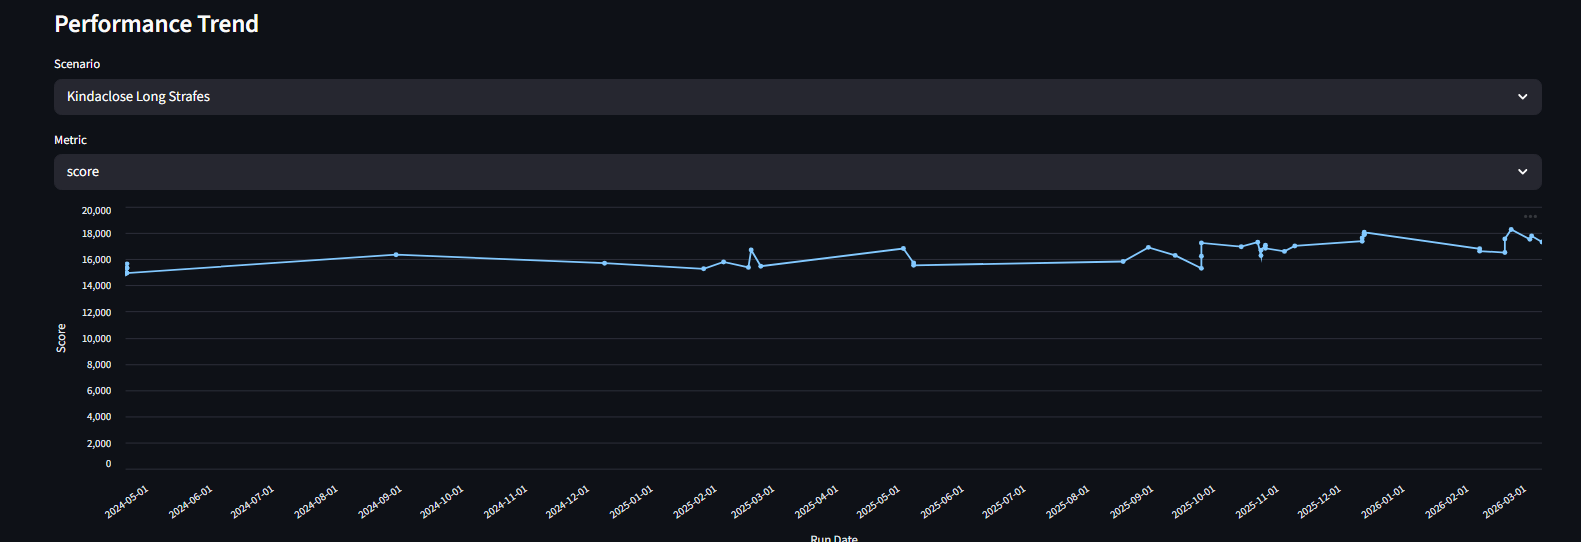
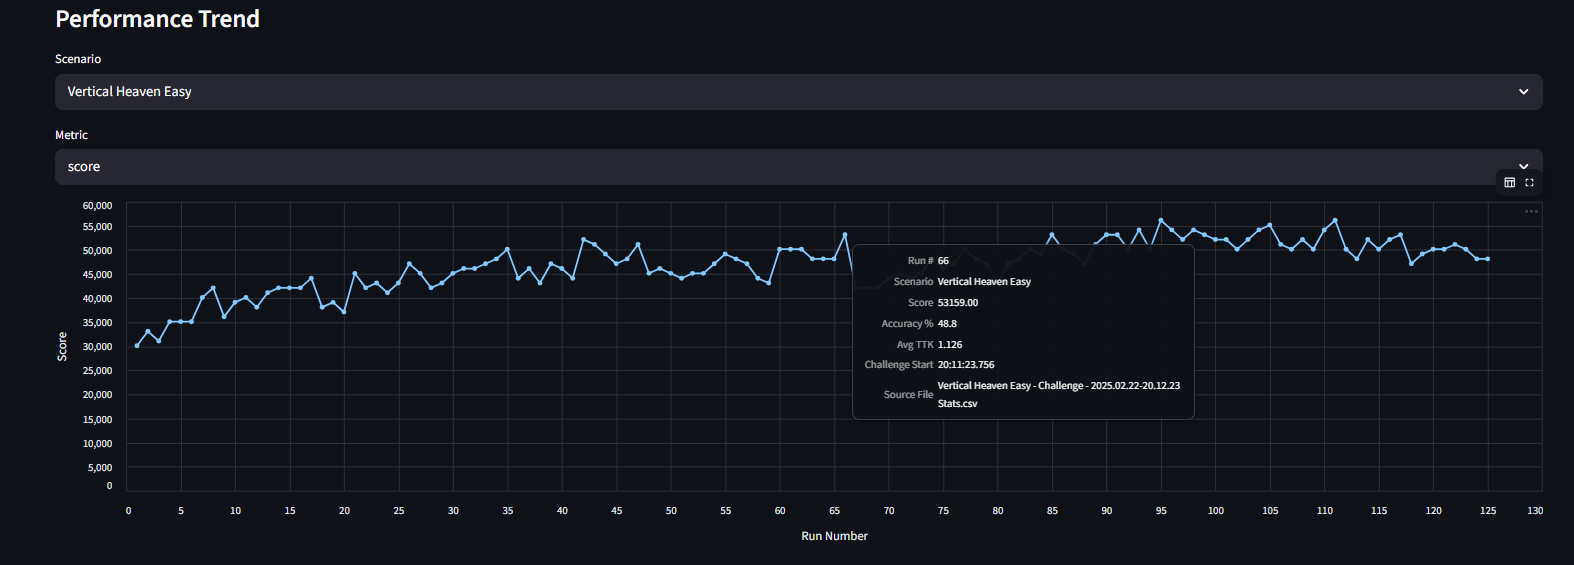
Updated README and screenshots.

diff --git a/README.md b/README.md
@@ -11,7 +11,7 @@ A locally run stat tracker that pulls your full Kovaak's scenario history and di
   Saved Kovaak's playlists are parsed and used to group scenarios in the dashboard.
 
 - **Performance Trend Visualization**  
-  Interactive charts show score, accuracy, kills, and other metrics over time.
+  Interactive charts show score, accuracy, kills, and other metrics across sequential runs..
 
 - **Scenario-Level Analysis**  
   View total runs, best score, and most recent run for each task.
@@ -39,34 +39,42 @@ stat_ingestion.py
 and playlists)
 │
 ▼
-MongoDB
-kovaaks_tracker
+SQLite Database
+kovaaks_tracker.db
 ├── runs
 ├── kill_events
-└── playlists
+├── playlists
+└── playlist_scenarios
 │
 ▼
 Streamlit Dashboard
 dashboard.py
 ```
-The ingestion script parses Kovaak's run summary files and playlist definitions and stores the results in MongoDB.  The Streamlit dashboard queries this database to provide interactive visualizations, scenario summaries, and run inspection tools.
+The ingestion script parses Kovaak's run summary files and playlist definitions and stores the parsed results in a local SQLite database (kovaaks_tracker.db).  The Streamlit dashboard queries this database to provide interactive visualizations, scenario summaries, and run inspection tools.
 
 ### System Requirements
-**Python 3.10+** for data ingestion and Streamlit dashboard
+**Python 3.10+**
 
-**MongoDB** for data storage (see: [MongoDB install](https://www.mongodb.com/docs/manual/installation/?msockid=35c8347aa17266352649258aa0576720) to install MongoDB)
+**Python packages**
+- Streamlit
+- Pandas
+- Altair
 
-**Streamlit** for building dashboard interface
+Install dependencies with:
+
+`pip install -r requirements.txt`
 
 **Kovaak's save files** for accessing scenario data, typically found at:
 
 `C:\Program Files (x86)\Steam\steamapps\common\FPSAimTrainer\FPSAimTrainer`
 
+No external database is required — the project uses a local SQLite database automatically created during ingestion.
+
 ### To run
 1. Copy the repo using standard methods like `git clone https://github.com/Hawklight1/kovaaks_tracker`
 2. Set up a virtual environment, preferably via pip with `python -m venv .venv `
 3. Install requirements with `pip install -r requirements.txt`
-4. Ingest kovaak's stats to a local MongoDB with `python stat_ingestion.py`
+4. Ingest Kovaak's stats into the local SQLite database with `python stat_ingestion.py` (This creates a local database file: `kovaaks_tracker.db`)
 5. Load dashboard with `streamlit run dashboard.py`
 
 ### Dashboard Preview
